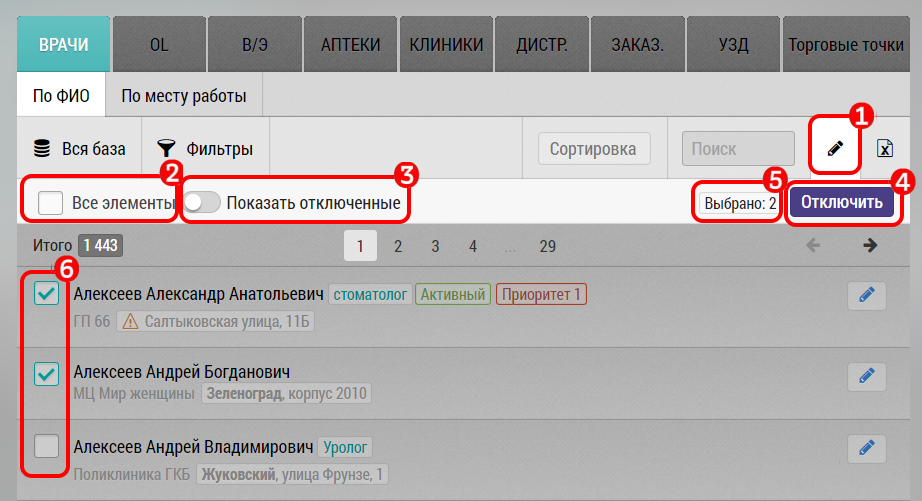
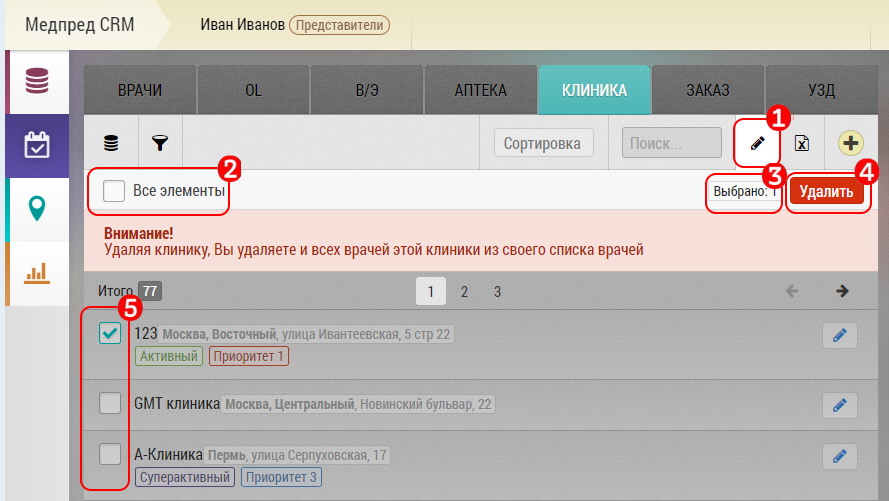
[upd] Обновление раздела про отключение из базы

diff --git a/src/guide/rep-planning-central-block-edit-multi.md b/src/guide/rep-planning-central-block-edit-multi.md
@@ -1,16 +1,18 @@
-# Отключение или удаление нескольких объектов/субъектов
+# Удаление нескольких объектов/субъектов
 
-Чтобы отключить или удалить несколько объектов/субъектов, необходимо выбрать нужную вкладку (например врачи).
+Чтобы отключить или удалить несколько объектов/субъектов, необходимо выбрать нужную вкладку (например клиники).
 
 ![](../images/rep-planning-central-block-edit-multi.png)
 
 - Нажать на кнопку перехода в режим редактирования `1`
-- Выбрать все записи `2` или отметить и исключить записи по одной `6`.
-- Исключенные записи можно увидеть и включить обратно с помощью переключателя "Показать отключенные" `3`
-- После чего можно отключить `4` или удалить (в объектах) выбранные записи
+- Выбрать все записи `2` или отметить и исключить записи по одной `5`.
 
-- В правой части панели редактирования выводится количество выбранных записей `5`
+- После чего можно удалить `4`  (в объектах) выбранные записи
 
-> Удаленные записи не удаляются насовсем, пользователь с правами администратора может их вернуть при необходимости.
+- В правой части панели редактирования выводится количество выбранных записей `3`
 
-> При отключении или удалении клиники вы отключаете или удаляете и всех врачей вместе с ней
+> Удаленные записи не удаляются насовсем, пользователь с правами администратора может их вернуть при необходимости 
+
+> При доступе к Базе данных пользователь может добавить объекты самостоятельно
+
+> При удалении клиники вы отключаете или удаляете и всех врачей вместе с ней

diff --git a/src/guide/rep-planning-central-block-edit.md b/src/guide/rep-planning-central-block-edit.md
@@ -1,5 +1,7 @@
 # Режим редактирования
 
+> Режим редактирования подключается через запрос в Техподдержку, по умолчанию отключить субъекты возможности нет 
+
 Режим редактирования предназначен для редактирования субъекта/объекта, массового отключения или удаления некорректных/ненужных/временно ненужных записей.
 
 ![](../images/rep-planning-central-block-edit.png)
